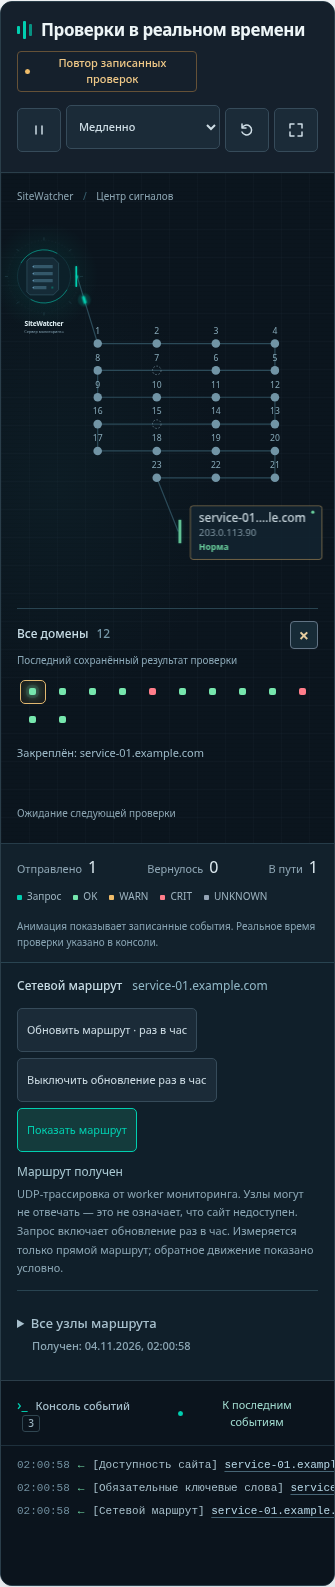
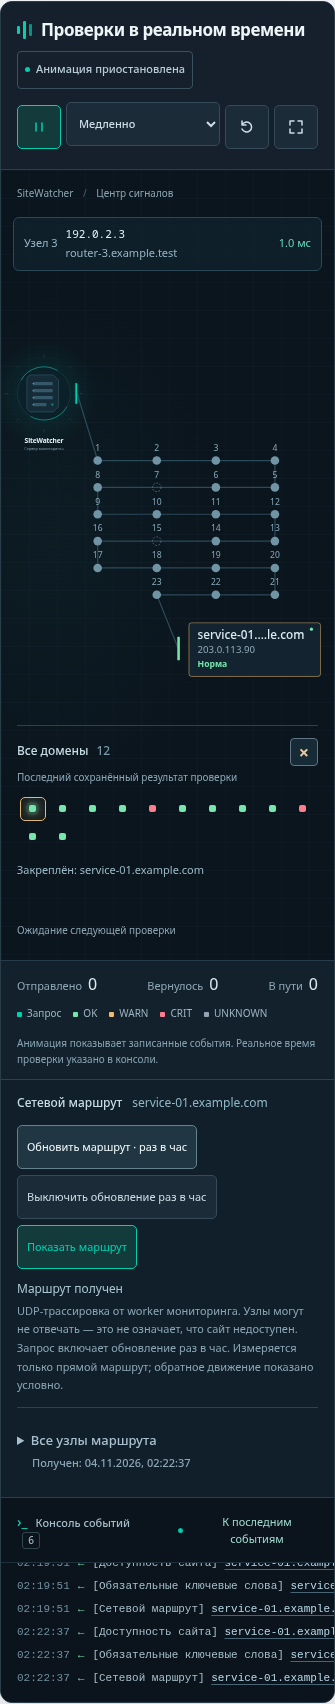
feat: show route node names and latency in the signal map

diff --git a/sitewatcher/webapp/static/sitewatcher/route_view.js b/sitewatcher/webapp/static/sitewatcher/route_view.js
@@ -23,6 +23,17 @@
       this.saveGeneration = 0;
       this.message = '';
       this.paddles = [];
+      this.detail = document.createElement('div');
+      this.detail.className = 'activity-hop-detail';
+      this.detail.hidden = true;
+      this.detailNodes = {};
+      for (const key of ['index', 'ip', 'hostname', 'rtt']) {
+        const node = document.createElement(key === 'ip' ? 'code' : 'span');
+        node.className = `activity-hop-${key}`;
+        this.detailNodes[key] = node;
+        this.detail.append(node);
+      }
+      this.scroll?.append(this.detail);
       this.group = svgElement('g', {'data-route-hops': '', class: 'scene-route-hops'});
       const nodes = this.svg?.querySelector('[data-scene-nodes]');
       if (nodes) nodes.before(this.group);
@@ -84,17 +95,25 @@
       this.signature = signature;
       this.panel.dataset.routeActive = String(active);
       if (changed) {
+        if (!active || this.displayHops !== hops) {
+          this.pinnedHop = null;
+          this.shownHop = 0;
+        }
+        this.inspectedHop = null;
         this.geometry = null;
         this.group.replaceChildren();
         this.paddles = [];
         if (active) this.draw(hops, result);
       }
+      this.detail.hidden = !active;
+      if (active) this.showHop(this.inspectedHop ?? this.pinnedHop ?? this.shownHop ?? 0);
       this.paintControls();
       this.paintList(hops, result);
       this.geometrySignature = this.active ? JSON.stringify([this.selectedName, this.geometry]) : '';
       if (previousGeometry !== this.geometrySignature) this.onChange?.();
     }
     draw(hops, result) {
+      this.displayHops = hops;
       // A responding destination belongs to the existing domain card, not a second router.
       const routers = result.reached && hops.at(-1).ip === result.destination_ip
         ? hops.slice(0, -1) : hops;
@@ -116,14 +135,29 @@
           ? `${hop.rtt_ms.toFixed(1)} ${this.text('ms')}` : this.text('noResponse');
         group.append(
           svgElement('title', {}, `${this.text('hop')} ${hop.ttl}: ${ip} ${hop.hostname || ''} · ${rtt}`),
+          svgElement('circle', {class: 'scene-route-hit', r: 16}),
           svgElement('circle', {class: 'scene-route-paddle', r: compact ? 8 : 6}),
           svgElement('text', {class: 'scene-route-ttl', y: compact ? -18 : -15,
             'text-anchor': 'middle'}, String(hop.ttl))
         );
-        // Dense routes stay readable as dots; full addresses remain in tooltips and the list.
+        group.addEventListener('pointerenter', () => {
+          this.inspectedHop = index;
+          this.showHop(index);
+        });
+        group.addEventListener('pointerleave', () => { this.inspectedHop = null; });
+        group.addEventListener('click', () => {
+          this.pinnedHop = this.pinnedHop === index ? null : index;
+          this.showHop(index);
+        });
+        // Short routes have room for inline labels; dense routes use the shared detail card.
         if (!compact && routers.length <= 4 && ip.length <= 18) {
           group.append(svgElement('text', {class: 'scene-route-ip', y: 32,
             'text-anchor': 'middle'}, ip));
+          group.append(svgElement('text', {class: 'scene-route-ptr', y: 50,
+            'text-anchor': 'middle'}, hop.hostname?.length > 22
+              ? `${hop.hostname.slice(0, 19)}…` : hop.hostname || '—'));
+          group.append(svgElement('text', {class: 'scene-route-rtt', y: 68,
+            'text-anchor': 'middle'}, rtt));
         }
         this.group.append(group);
         this.paddles.push(group);
@@ -131,6 +165,22 @@
       points.push({x: target.x - 20, y: target.y});
       this.geometry = {width: compact ? 620 : 1200, height: compact ? 640 : 480,
         compact, hub, target, points, destination_ip: result.destination_ip || null};
+    }
+    showHop(index) {
+      const hop = this.displayHops?.[index];
+      if (!this.active || !hop) return;
+      this.shownHop = index;
+      const signature = JSON.stringify([this.selectedName, hop]);
+      if (signature === this.detailSignature) return;
+      this.detailSignature = signature;
+      this.detail.dataset.ttl = String(hop.ttl);
+      this.detailNodes.index.textContent = `${this.text('hop')} ${hop.ttl}`;
+      this.detailNodes.ip.textContent = hop.ip || '*';
+      this.detailNodes.hostname.textContent = hop.hostname || this.text('hostnameUnavailable');
+      this.detailNodes.hostname.title = this.detailNodes.hostname.textContent;
+      this.detailNodes.ip.title = hop.ip || '*';
+      this.detailNodes.rtt.textContent = typeof hop.rtt_ms === 'number' && Number.isFinite(hop.rtt_ms)
+        ? `${hop.rtt_ms.toFixed(1)} ${this.text('ms')}` : this.text('noResponse');
     }
     paintControls() {
       const route = this.route();
@@ -179,6 +229,19 @@
         if (hop.hostname) row.append(` — ${hop.hostname}`);
         row.append(typeof hop.rtt_ms === 'number' && Number.isFinite(hop.rtt_ms)
           ? ` · ${hop.rtt_ms.toFixed(1)} ${this.text('ms')}` : ` · ${this.text('noResponse')}`);
+        const button = document.createElement('button');
+        button.type = 'button';
+        button.className = 'route-hop-choice';
+        button.setAttribute('aria-label', `${this.text('hop')} ${hop.ttl}: ${row.textContent}`);
+        button.append(...row.childNodes);
+        button.addEventListener('click', () => {
+          this.desired = true;
+          this.render();
+          const index = hops.indexOf(hop);
+          this.pinnedHop = this.pinnedHop === index ? null : index;
+          this.showHop(index);
+        });
+        row.append(button);
         list.append(row);
       }
       const captured = this.find('[data-route-captured]');
@@ -233,6 +296,8 @@
       const progress = flight ? Math.max(0, Math.min(1, flight.phase === 'out'
         ? flight.progress : flight.phase === 'back' ? 1 - flight.progress : 1)) : null;
       const segments = this.geometry.points.length - 1;
+      this.showHop(this.inspectedHop ?? this.pinnedHop ?? (progress === null ? 0
+        : Math.min(this.hops().length - 1, Math.floor(progress * segments))));
       this.paddles.forEach((paddle, index) => {
         paddle.classList.toggle('is-traversed', progress !== null && progress * segments >= index + 1);
         paddle.classList.toggle('is-current', progress !== null

diff --git a/sitewatcher/webapp/static/sitewatcher/activity.css b/sitewatcher/webapp/static/sitewatcher/activity.css
@@ -244,7 +244,7 @@
   .scene-node-content { animation: none; }
 }
 
-.activity-panel[data-paused=true] .scene-node-content { animation-play-state: paused; }
+.activity-panel[data-paused=true] .scene-node-content { animation: none; }
 
 /* Private worker-origin route: a horizontal hop rail shares the existing signal scene. */
 .activity-route { padding: 16px 24px; border-top: 1px solid #294451; background: #101f2a; }
@@ -302,3 +302,22 @@
 .activity-panel[data-route-active=true][data-scene-layout=compact] .scene-node-meta { font-size: 18px; }
 .activity-panel[data-route-active=true][data-scene-layout=compact] .scene-node-status { font-size: 16px; }
 .activity-panel[data-route-active=true][data-scene-layout=compact] .scene-route-ttl { font-size: 16px; }
+
+.activity-canvas { position: relative; }
+.activity-hop-detail { position: absolute; top: 12px; left: 18px; right: 18px; z-index: 1; display: grid; grid-template-columns: auto minmax(0, 1fr) auto; gap: 3px 16px; align-items: center; padding: 10px 14px; border: 1px solid #2a4857; border-radius: 6px; background: #10212beb; color: #d4e8ef; font-size: 12px; line-height: 1.5; pointer-events: none; }
+.activity-hop-index { grid-column: 1; grid-row: 1 / 3; color: #91b6c5; }
+.activity-hop-ip { grid-column: 2; grid-row: 1; padding: 0; background: none; color: #e2f2f7; font-size: 12px; overflow-wrap: anywhere; }
+.activity-hop-hostname { grid-column: 2; grid-row: 2; color: #93b4c2; overflow-wrap: anywhere; }
+.activity-hop-rtt { grid-column: 3; grid-row: 1 / 3; color: #64d8bd; font-variant-numeric: tabular-nums; }
+.scene-route-hop { cursor: pointer; }
+.activity-panel .route-hop-choice { display: block; width: 100%; min-height: 44px; padding: 4px 0; border: 0; border-radius: 3px; background: transparent; box-shadow: none; color: inherit; font: inherit; text-align: start; overflow-wrap: anywhere; }
+.activity-panel .route-hop-choice:hover, .activity-panel .route-hop-choice:focus-visible { color: #e2f2f7; background: #19333f; }
+.activity-panel[data-route-active=true][data-scene-layout=compact] .activity-canvas { padding-top: 120px; }
+.activity-panel[data-scene-layout=compact] .activity-hop-detail { left: 12px; right: 12px; gap: 3px 8px; padding: 8px 10px; font-size: 11px; }
+.activity-panel[data-scene-layout=compact] .activity-hop-ip { font-size: 11px; }
+
+.activity-hop-hostname { display: -webkit-box; -webkit-box-orient: vertical; -webkit-line-clamp: 2; overflow: hidden; }
+.scene-route-hop:hover .scene-route-paddle { stroke: #a6e4db; stroke-width: 2; }
+
+.scene-route-hit { fill: transparent; pointer-events: all; }
+[data-scene-pulses], [data-scene-links] { pointer-events: none; }

diff --git a/sitewatcher/webapp/templates/sitewatcher/partials/route_controls.html b/sitewatcher/webapp/templates/sitewatcher/partials/route_controls.html
@@ -17,6 +17,7 @@
     data-saved="{% translate 'Route queued. Waiting for the worker.' %}"
     data-stopped="{% translate 'Hourly route updates disabled.' %}"
     data-no-response="{% translate 'No response' %}"
+    data-hostname-unavailable="{% translate 'Hostname unavailable' %}"
     data-hop="{% translate 'Hop' %}"
     data-ms="{% translate 'ms' %}"
 >

diff --git a/README.md b/README.md
@@ -79,7 +79,7 @@ sitewatcher worker
 
 Включение запоминается в браузере. Выключение блока и скрытие вкладки прекращают опрос; системное предпочтение уменьшенного движения оставляет статичную схему и консоль. Пока сцена открыта, автообновление не перезагружает всю страницу. Открытие сцены не запускает проверки: она показывает события мониторинга, а не отдельные сетевые пакеты. [Обычный вид](docs/screenshots/signal-room-desktop.png), [полный экран](docs/screenshots/signal-room-expanded.png), [телефон](docs/screenshots/signal-room-mobile.png).
 
-Для выбранного домена доступен **Сетевой маршрут**: нажмите точку домена на карте и **Запросить маршрут**. Worker выполнит UDP-traceroute и далее будет обновлять его раз в час; обновления можно отключить. **Показать маршрут** разворачивает цепочку реальных узлов с IP, PTR-именами и временем ответа. Весь маршрут помещается в одной сцене: узлы показаны точками, сигналы проходят через них. На телефоне цепочка укладывается в несколько рядов. IP и имена доступны в подсказках и списке; горизонтальной прокрутки нет. Полный список узлов доступен под сценой. [Пример маршрута на тестовых данных](docs/screenshots/network-route-desktop.png).
+Для выбранного домена доступен **Сетевой маршрут**: нажмите точку домена на карте и **Запросить маршрут**. Worker выполнит UDP-traceroute и далее будет обновлять его раз в час; обновления можно отключить. **Показать маршрут** разворачивает цепочку реальных узлов с IP, PTR-именами и временем ответа. Весь маршрут помещается в одной сцене: узлы показаны точками, сигналы проходят через них. На телефоне цепочка укладывается в несколько рядов. В самой сцене видны IP, имя и задержка выбранного узла; на коротких маршрутах подписи находятся также под точками. Карточка следует за сигналом, наведение показывает другой узел, щелчок закрепляет его (повторный снимает закрепление). Выбрать узел можно и кнопкой в полном списке, в том числе с клавиатуры. Горизонтальной прокрутки нет. Полный список узлов доступен под сценой. [Пример маршрута на тестовых данных](docs/screenshots/network-route-desktop.png).
 
 Трассировка ограничена 24 узлами и примерно 30 секундами. В Docker утилита уже установлена; при запуске из исходников установите системный пакет `traceroute`. Дополнительные привилегии не нужны. Измеряется маршрут от worker, а не от посетителя; UDP-путь может отличаться от HTTPS. Пропуски помечаются `*` и не меняют статус сайта. Обратное движение сигнала условное: обратный маршрут не измеряется. Маршруты и внутренние IP доступны только владельцу; на публичной странице остаётся карта HTTP-проверок.
 
